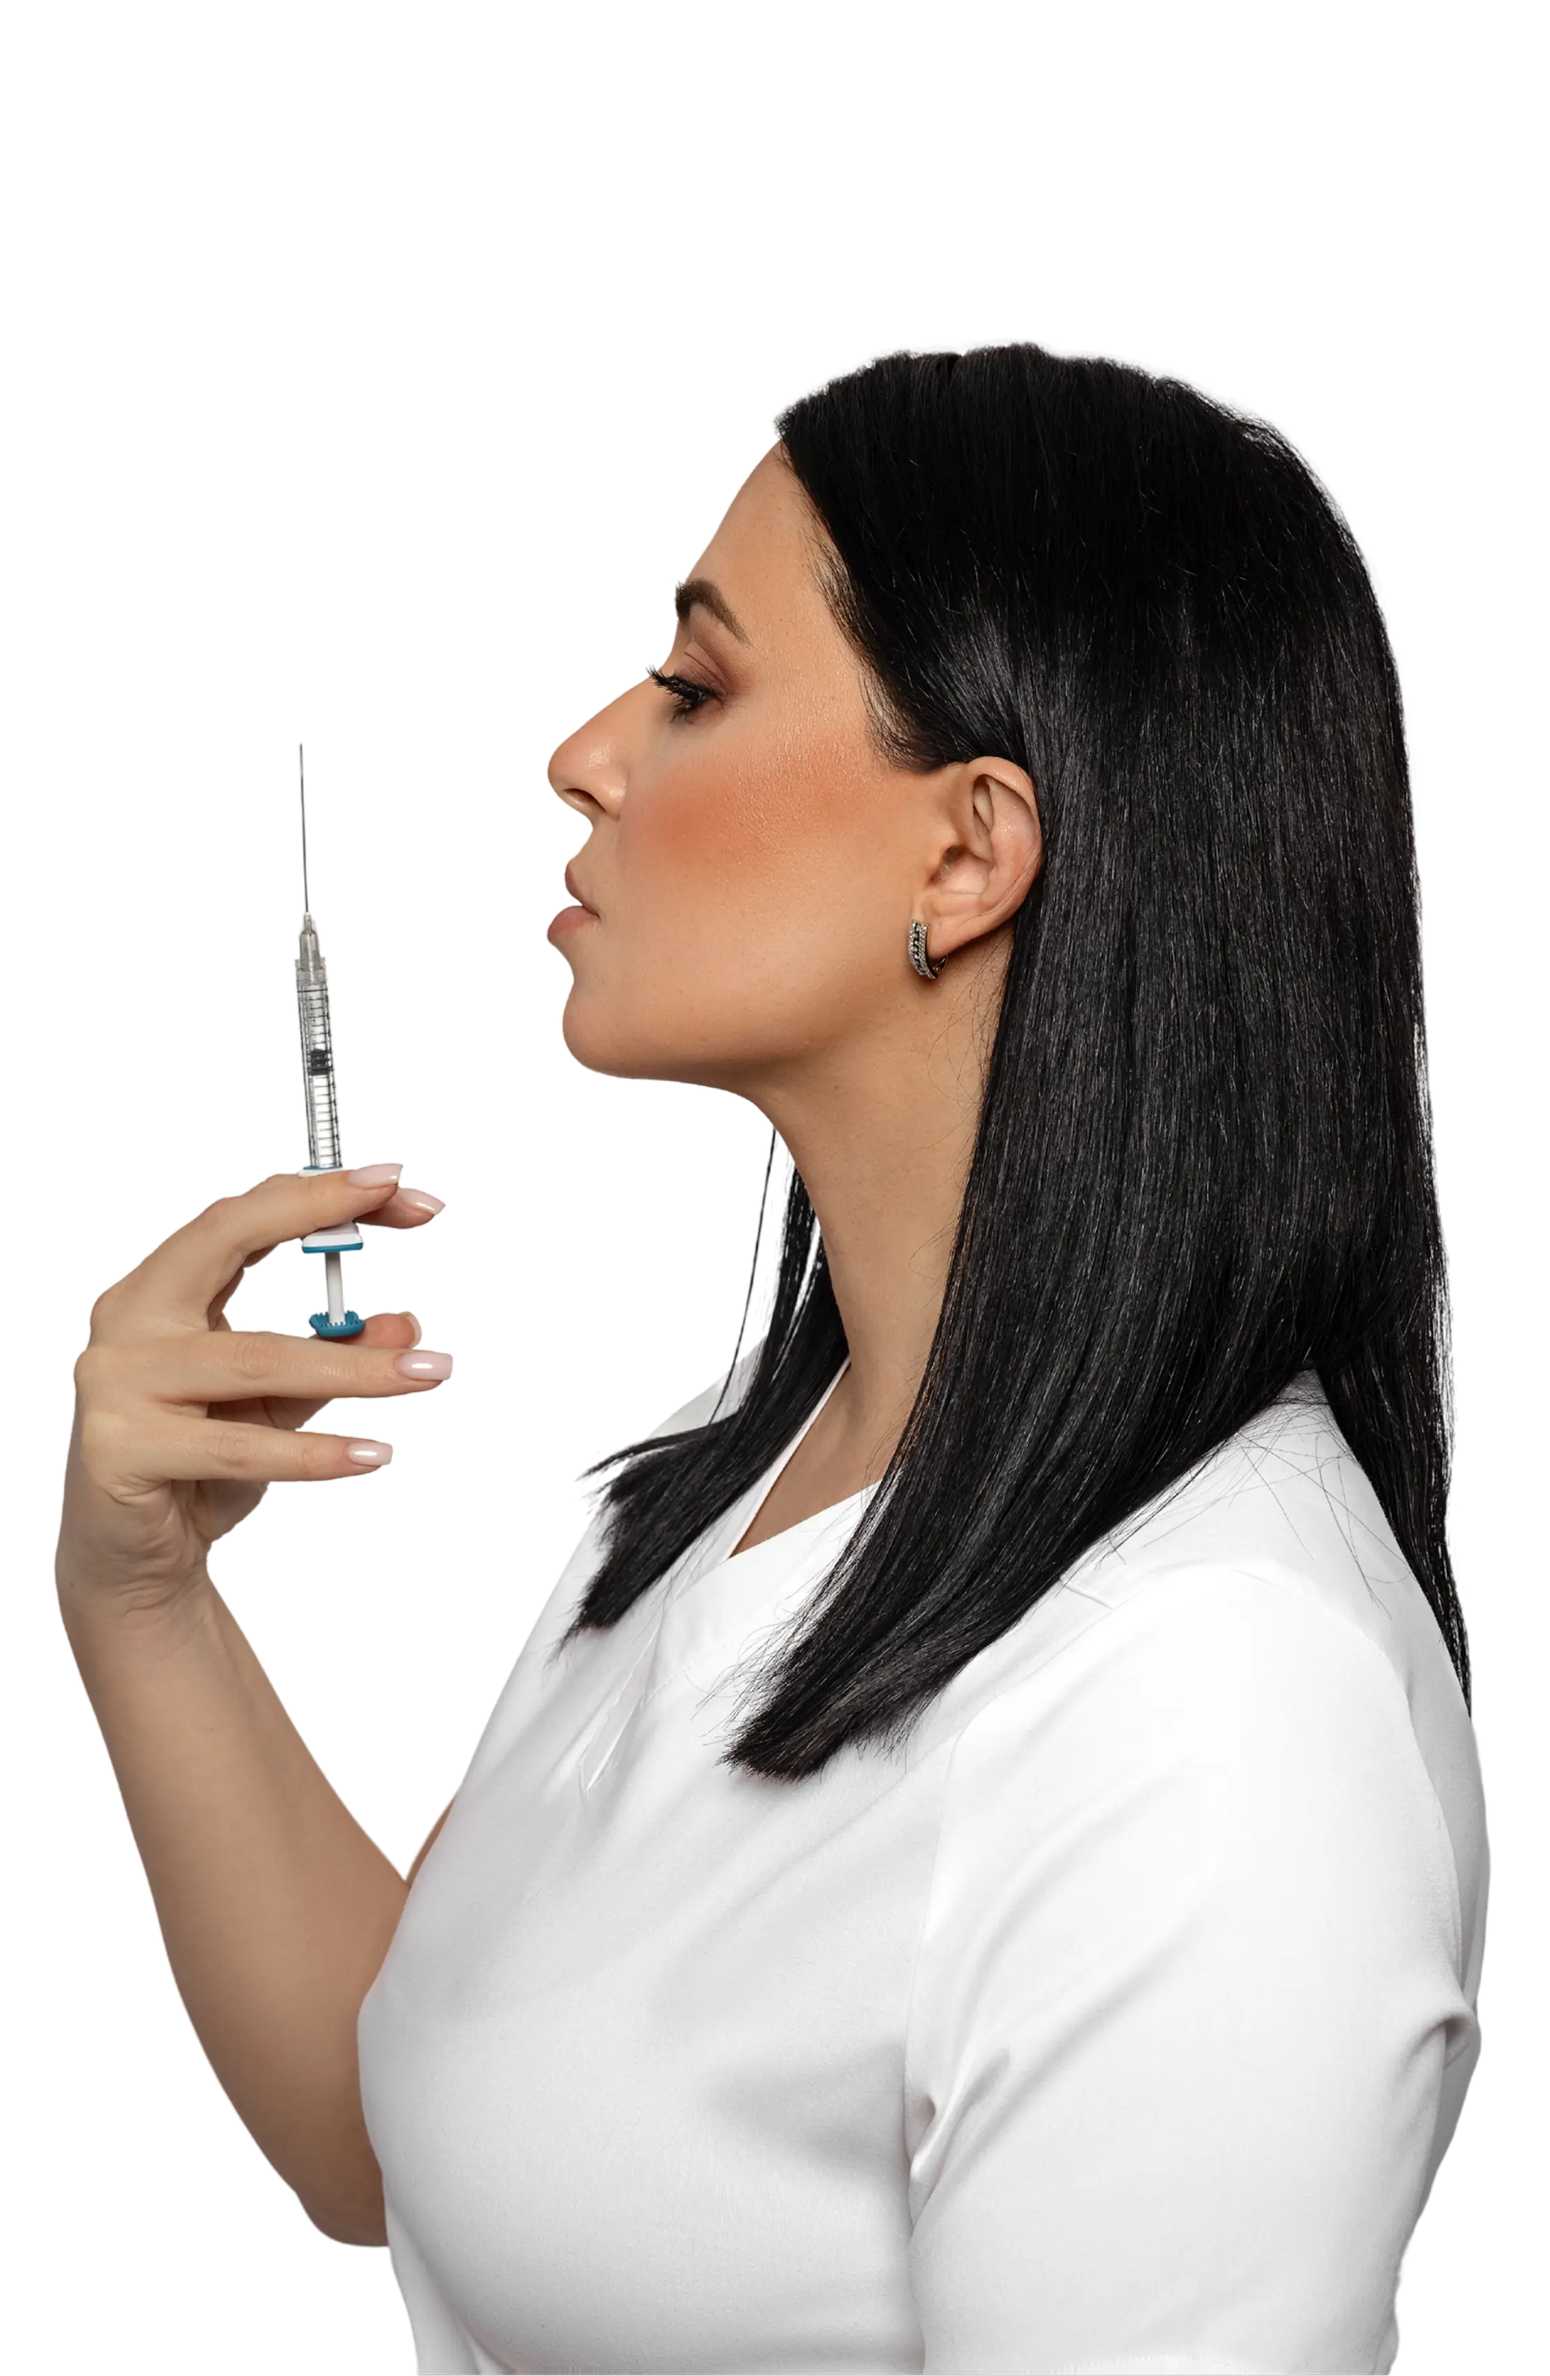
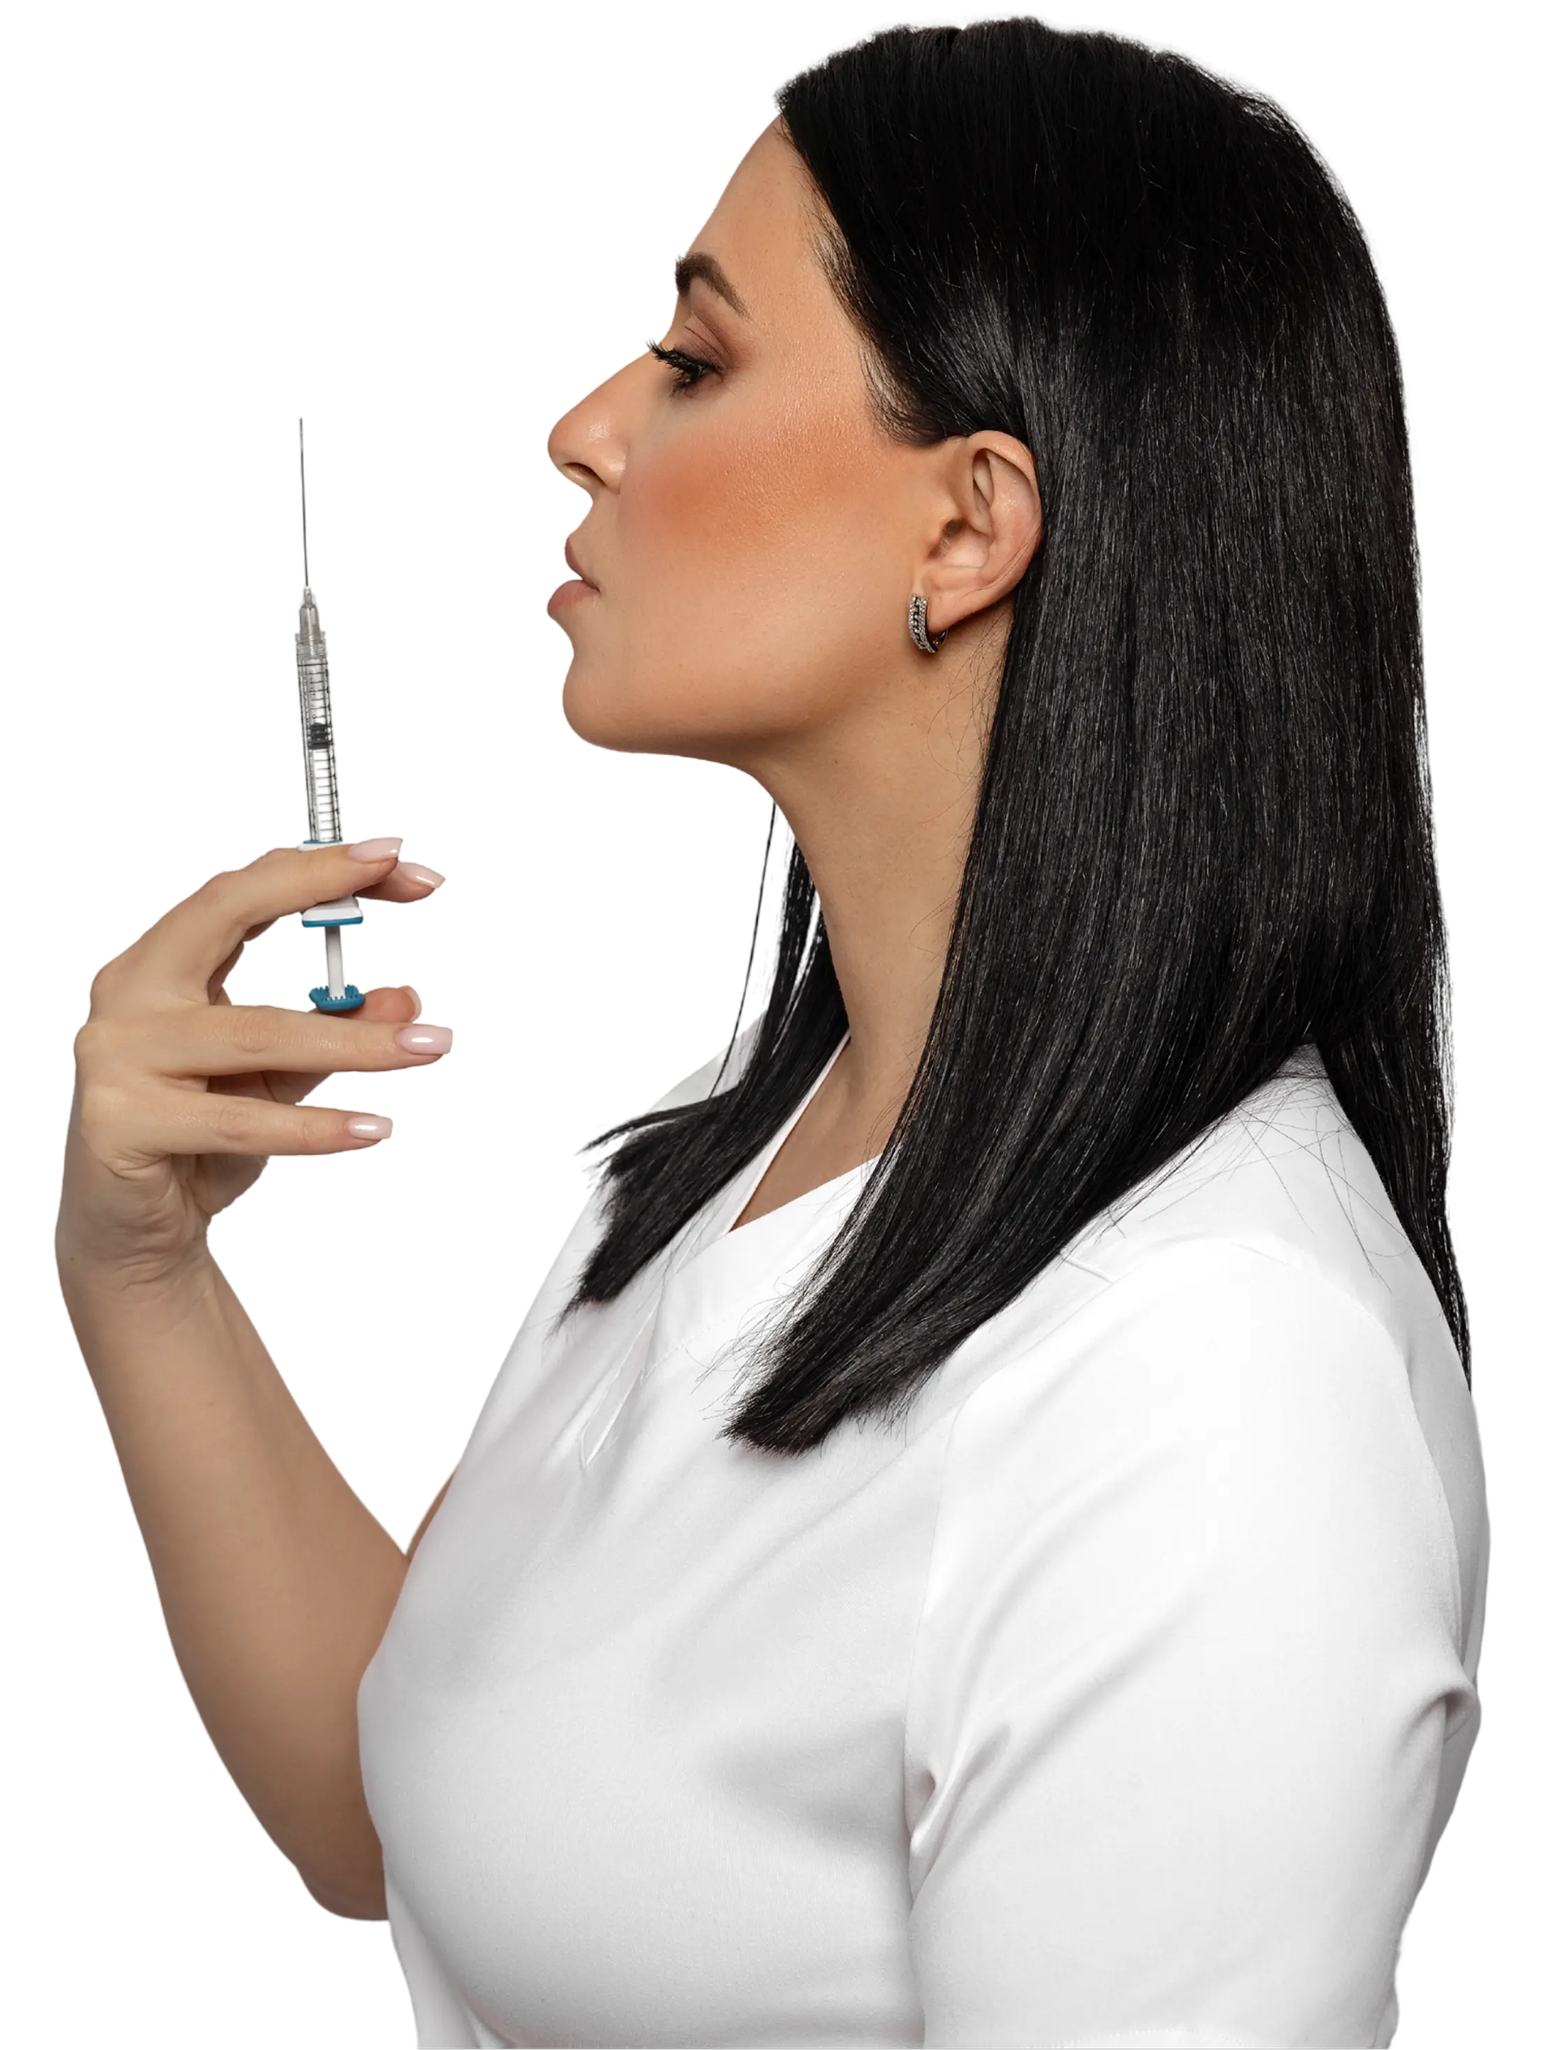
Update components, add new services and testimonials, remove old images

diff --git a/src/components/common/HeroSection.tsx b/src/components/common/HeroSection.tsx
@@ -5,83 +5,81 @@ import Button from '@/components/ui/Button';
 
 const HeroSection = () => {
   return (
-    <div className="relative w-full bg-global-12 rounded-xl overflow-hidden">
-      {/* Hero Section with Background */}
-      <div className="relative  container min-h-[1054px] overflow-x-auto">
-        {/* Background Beauty Text */}
-        <div className="absolute top-[404px] left-[-986px] z-0">
-          <span className="text-[284px] font-manrope font-light leading-[388px] uppercase text-global-6">
-            beauty
-          </span>
+    <section className="relative w-full bg-white overflow-hidden lg:pb-[60px]">
+      <div className="container mx-auto px-4 sm:px-6 lg:px-8 relative z-10 flex flex-col lg:flex-row items-center justify-between gap-10 lg:gap-0">
+        {/* Left (Text) */}
+        <div className="order-2 sm:order-1 w-full lg:w-1/3 self-start pt-0 sm:pt-[120px] ">
+          <h1 className="text-[70px] sm:text-[86px] lg:text-[96px] justify-start font-manrope font-normal leading-tight text-[#3F3F3F] mb-6 lg:mb-10">
+            Your Skin,
+            <br className="block sm:hidden lg:block" />
+            refined.
+          </h1>
         </div>
-
-        {/* Main Hero Content */}
-        <div className="relative z-10 flex flex-col lg:flex-row items-start justify-between w-full pt-20 pb-16">
-          {/* Left Content */}
-          <div className="w-full lg:w-1/2 px-4 sm:px-6 lg:px-8">
-            <div className="max-w-lg">
-              <p className="text-base font-montserrat font-medium leading-6 text-global-5 mb-8 lg:mb-12">
-                Welcome — I am Dr Anna Kononenko, a medical aesthetic doctor with over a decade of
-                experience in advanced skincare and facial aesthetics.
-                <br />
-                <br />I believe that every woman is inherently beautiful. My role is not to change
-                your face, but to help you see — and feel — that beauty more clearly.
-              </p>
-            </div>
-          </div>
-
-          {/* Right Content - Hero Image and Text */}
-          <div className="w-full lg:w-1/2 relative">
-            <div className="relative">
-              <h1 className="text-6xl sm:text-7xl md:text-8xl lg:text-[96px] font-manrope font-normal leading-[87px] text-global-5 mb-8">
-                Your Skin, refined.
-              </h1>
-              <div className="relative -ml-8 sm:-ml-12 lg:-ml-[148px]">
-                <Image
-                  src="/images/img_.png"
-                  alt="Beauty treatment"
-                  width={554}
-                  height={728}
-                  className="w-full max-w-[554px] h-auto"
-                />
-              </div>
-            </div>
-          </div>
+        {/* Main Image */}
+        <div className="order-3 sm:order-2 w-full lg:w-1/3">
+          <Image
+            src="/images/Anna2.webp"
+            alt="Beauty treatment"
+            width={554}
+            height={728}
+            className="w-full h-auto object-contain"
+            priority
+          />
         </div>
-
-        {/* Treatment Tags */}
-        <div className="flex flex-wrap gap-4 justify-center mt-8 px-4">
-          <span className="bg-global-8 text-global-10 text-sm font-urbanist font-medium px-4 py-2 rounded-2xl shadow-[0px_4px_8px_#888888ff]">
-            Lip augmentation
-          </span>
-          <div className="flex flex-col gap-2">
-            <div className="flex gap-4">
-              <Button
-                variant="secondary"
-                size="sm"
-                className="bg-global-8 text-global-10 text-sm font-urbanist font-medium px-8 py-2 rounded-2xl shadow-[0px_4px_8px_#888888ff]"
-              >
+        {/* Right (Text) */}
+        <div className="order-1 sm:order-3 w-full lg:w-1/3 self-start pt-[40px] sm:pt-[100px]">
+          <div className="flex flex-col gap-6 lg:gap-12 justify-start">
+            {/* Tags */}
+            <div className="flex flex-wrap gap-3 justify-end">
+              <span className="bg-[#F2F2F2] text-[#3F3F3F] text-[10px] sm:text-sm font-medium px-10 py-3 rounded-2xl">
+                Lip augmentation
+              </span>
+              <span className="bg-[#F2F2F2] text-[#3F3F3F] text-[10px] sm:text-sm font-medium px-10 py-3 rounded-2xl">
                 Lifting
-              </Button>
-              <Button
-                variant="secondary"
-                size="sm"
-                className="bg-global-8 text-global-10 text-sm font-urbanist font-medium px-6 py-2 rounded-2xl shadow-[0px_4px_8px_#888888ff]"
-              >
+              </span>
+              <span className="bg-[#F2F2F2] text-[#3F3F3F] text-[10px] sm:text-sm font-medium px-10 py-3 rounded-2xl">
                 Anti aging
-              </Button>
+              </span>
+              <span className="bg-[#F2F2F2] text-[#3F3F3F] text-[10px] sm:text-sm font-medium px-10 py-3 rounded-2xl">
+                Bio revitalization & mesotherapy
+              </span>
             </div>
-            <Button
-              variant="secondary"
-              size="sm"
-              className="bg-global-8 text-global-10 text-sm font-urbanist font-medium px-4 py-2 rounded-2xl shadow-[0px_4px_8px_#888888ff]"
-            >
-              Bio revitalization & mesotherapy
-            </Button>
+
+            {/* Description */}
+            <p className="text-base font-medium text-[#3F3F3F] font-montserrat leading-[1.6]">
+              Welcome — I’m Dr Anna Kononenko, a medical aesthetic doctor with over a decade of
+              experience in advanced skincare and facial aesthetics.
+              <br />
+              <br />I believe that every woman is inherently beautiful. My role is not to change
+              your face, but to help you see — and feel — that beauty more clearly.
+            </p>
           </div>
+        </div>
+
+        {/* Mobile CTA Button */}
+        <div className="lg:hidden absolute bottom-0 left-1/2 transform -translate-x-1/2 w-[90%]">
+          <button className="w-full bg-white text-black text-base font-medium py-4 rounded-full shadow-md z-50">
+            Book online
+          </button>
         </div>
       </div>
-    </div>
+      {/* Background Text */}
+      <div className="absolute bottom-0 left-1/2 transform -translate-x-1/2 z-50">
+        <span className="text-[100px] sm:text-[100px] md:text-[284px] lg:text-[284px/80 font-light uppercase text-[#171411] leading-none whitespace-nowrap overflow-hidden">
+          BEAUTY BEAUTy
+        </span>
+      </div>
+      s
+      <div className="absolute bottom-0 left-0 w-full z-30">
+        <Image
+          src="/images/BG2.webp"
+          alt="Background"
+          width={1422}
+          height={158}
+          className="w-full h-[431px]"
+        />
+      </div>
+    </section>
   );
 };
 

diff --git a/src/components/common/Testimonials.tsx b/src/components/common/Testimonials.tsx
@@ -7,37 +7,37 @@ const testimonials = [
     text: 'I have had treatments before, but this is the first time I have felt really understood. Dr Anna did not impose anything - she just focused on what would suit my skin. The changes are already noticeable, but I see them every morning.',
     name: 'Kai Tanaka',
     role: 'frequent traveler',
-    avatar: '/images/img_acsyrn3c7s1ydip.png',
+    avatar: '/images/testimonials1.webp',
   },
   {
     text: 'I had never tried aesthetic treatments before, so I was nervous. Dr Anna explained everything in a way that made me feel calm and in control. And honestly — the glow is real.',
     name: 'Jennifer Thompson',
     role: 'formerly used 2-step routine',
-    avatar: '/images/img_kwei0cezxwyw0iz.png',
+    avatar: '/images/testimonials2.webp',
   },
   {
     text: 'My skin went through a lot after — dryness, dullness, all of it. After two sessions here, I stopped using filters on my photos. It is not about looking younger — it is about looking well.',
     name: 'Sarah Mitchell',
     role: 'combination skin',
-    avatar: '/images/img_w8aukv1dmscfaog.png',
+    avatar: '/images/testimonials3.webp',
   },
   {
     text: 'You can tell she knows what she is doing. From consultation to treatment, everything is precise, clean and respectful. The kind of place where you feel safe, not rushed.',
     name: 'Diane Lawson',
     role: 'Skin regeneration',
-    avatar: '/images/img_2sjwwvmyj0bsk7v.png',
+    avatar: '/images/testimonials4.webp',
   },
   {
     text: 'At 52, I wanted something that looked natural — not done. Dr Anna delivered exactly that. No swelling, no pressure, just calm, professional care and a visible difference.',
     name: 'Aisha Rodriguez',
     role: 'Skin rejuvenation',
-    avatar: '/images/img_drutgarbyvdhx51.png',
+    avatar: '/images/testimonials5.webp',
   },
   {
     text: 'I was not expecting such a personal approach. Everything felt very thought-through. My skin feels firmer, but not tight or fake. It is just me — only fresher.',
     name: 'Michelle Kaplan',
     role: 'sensitive skin',
-    avatar: '/images/img_rfw9yoa5tebomee.png',
+    avatar: '/images/testimonials6.webp',
   },
 ];
 

diff --git a/src/components/common/DoctorProfile.tsx b/src/components/common/DoctorProfile.tsx
@@ -5,7 +5,7 @@ import Image from 'next/image';
 const DoctorProfile = () => {
   return (
     <div className="relative bg-global-6 rounded-xl py-16 mt-8 overflow-hidden">
-      <div className="container mx-auto px-4 sm:px-6 lg:px-8 ">
+      <div className="container mx-auto px-4 sm:px-6 lg:px-8">
         {/* Background Images */}
         <div className="absolute bottom-0 left-0 right-0 z-10">
           <Image
@@ -16,7 +16,7 @@ const DoctorProfile = () => {
             className="w-full h-auto"
           />
         </div>
-        <div className="hidden lg:block absolute mx-auto bottom-0 translate-x-1/3 z-[-1]">
+        <div className="hidden lg:block absolute mx-auto bottom-0 translate-x-1/2 z-[-1]">
           <Image
             src="/images/Anna.webp"
             alt="Dr. Anna Kononenko"

diff --git a/src/components/common/Header.tsx b/src/components/common/Header.tsx
@@ -35,7 +35,7 @@ const Header: React.FC<HeaderProps> = ({ className = '' }) => {
           </div>
 
           {/* Desktop Navigation */}
-          <nav className="hidden lg:flex items-center space-x-7">
+          <nav className="hidden lg:flex items-center space-x-7 mr-auto pl-[100px]">
             {menuItems.map((item, index) => (
               <Link key={index} href={item.href} passHref>
                 <span className="text-base font-medium font-urbanist text-global-4 hover:text-global-10 transition-colors duration-200 cursor-pointer">

diff --git a/src/components/common/Services.tsx b/src/components/common/Services.tsx
@@ -90,7 +90,7 @@ const Services = () => {
   const visibleServices = isMobile && !showAll ? services.slice(0, 4) : services;
 
   return (
-    <section className="pt-[83px] px-4 md:px-8">
+    <section className="pt-[83px] container mx-auto px-4 sm:px-6 lg:px-8">
       <h2 className="text-center uppercase font-light mb-5 text-[24px] md:text-[40px] leading-[29.28px] md:leading-[48.8px] font-manrope text-[#090909]">
         Services <span className="italic font-inter">Healix beauty</span>
       </h2>

diff --git a/src/components/common/ZemitsSection.tsx b/src/components/common/ZemitsSection.tsx
@@ -5,7 +5,7 @@ import Button from '@/components/ui/Button';
 
 const ZemitsSection = () => {
   return (
-    <div className="bg-global-12 rounded-xl p-8 sm:p-12 lg:p-16 space-y-16">
+    <div className="container mx-auto px-4 sm:px-6 lg:px-8  bg-global-12 rounded-xl space-y-16 pt-12">
       {/* Text Block */}
       <div className="space-y-4">
         <h2 className="text-3xl sm:text-4xl lg:text-5xl font-geist font-semibold text-global-4 leading-tight">

diff --git a/src/components/common/SkinPromoSection.tsx b/src/components/common/SkinPromoSection.tsx
@@ -6,7 +6,7 @@ import EditText from '@/components/ui/EditText';
 
 const SkinSectionBlock = () => {
   return (
-    <div className="px-4 sm:px-6 lg:px-14 py-16">
+    <div className="container mx-auto px-4 sm:px-6 lg:px-8 py-16">
       <div className="grid grid-cols-1 lg:grid-cols-5 gap-6 h-[712px] mb-10">
         {/* LEFT COLUMN – Statistics */}
         <div className="space-y-6 lg:col-span-2 flex flex-col h-full">

diff --git a/src/components/common/PopularServices.tsx b/src/components/common/PopularServices.tsx
@@ -31,7 +31,7 @@ const PopularServices = () => {
   };
 
   return (
-    <section className="mt-20 md:mt-[248.5px] px-4">
+    <section className="mt-10 md:mt-[150px] px-4">
       <h2 className="text-center text-[24px] md:text-[40px] font-manrope font-extralight leading-[24.28px] md:leading-[48.8px] uppercase text-[#090909]">
         Popular <span className="italic font-inter">Services</span>
       </h2>
